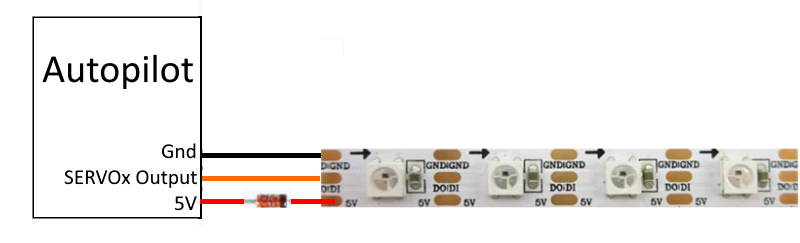
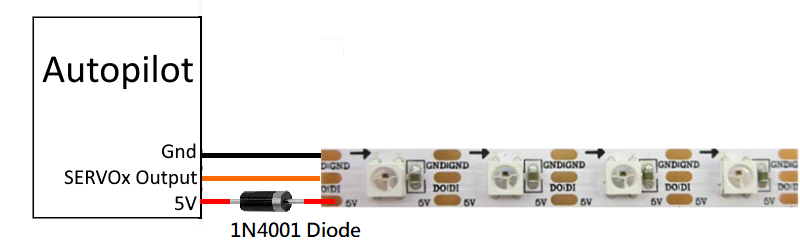
Common: expand neopixel signal voltage workaround with diode details and orientation

Changed region(s): [[0.2812, 0.7778, 0.4688, 0.9794]]

diff --git a/common/source/docs/common-serial-led-neopixel.rst b/common/source/docs/common-serial-led-neopixel.rst
@@ -15,7 +15,7 @@ Attach each LED to a separate PWM output and set the following parameters
 
 .. note:: a few "NeoPixel" LED types have a different data order for the red and green data instead of the normal green/red/blue orde. If you are not displaying the desired colors, try setting the :ref:`NTF_LED_TYPES<NTF_LED_TYPES>` parameter to ``NeoPixelRGB`` tpe instead.
 
-.. warning:: Most WS2812 style LED and strings will operate correctly when connected to the autopilot. However, if you get intermittent or non-operation, you may need to implement one of the configurations below. This is due to the fact that the autopilot outputs swing to 3.3V but the worst case input signal high spec for the LED is 4.3V at a 5V supply. So at extremes of tolerance/manufacturing spec, you can get a combination which will not work correctly. In that case the easiest solution is to lower the LED supply as shown below.
+.. warning:: Most WS2812 style LED and strings will operate correctly when connected to the autopilot. However, if you get intermittent or non-operation, you may need to implement one of the configurations below. This is due to the fact that the autopilot outputs swing to 3.3V but the worst case input signal high spec for the LED is 4.3V at a 5V supply. So at extremes of tolerance/manufacturing spec, you can get a combination which will not work correctly. In that case the easiest solution is to lower the LED supply voltage by inserting a 1N4001 diode between the FCU 5V output and the LED 5V input, as shown below. The cathode of the diode (marked with a gray stripe) must point toward the LED 5V input.
 
 
 .. image:: ../../../images/neopixel-fix.png